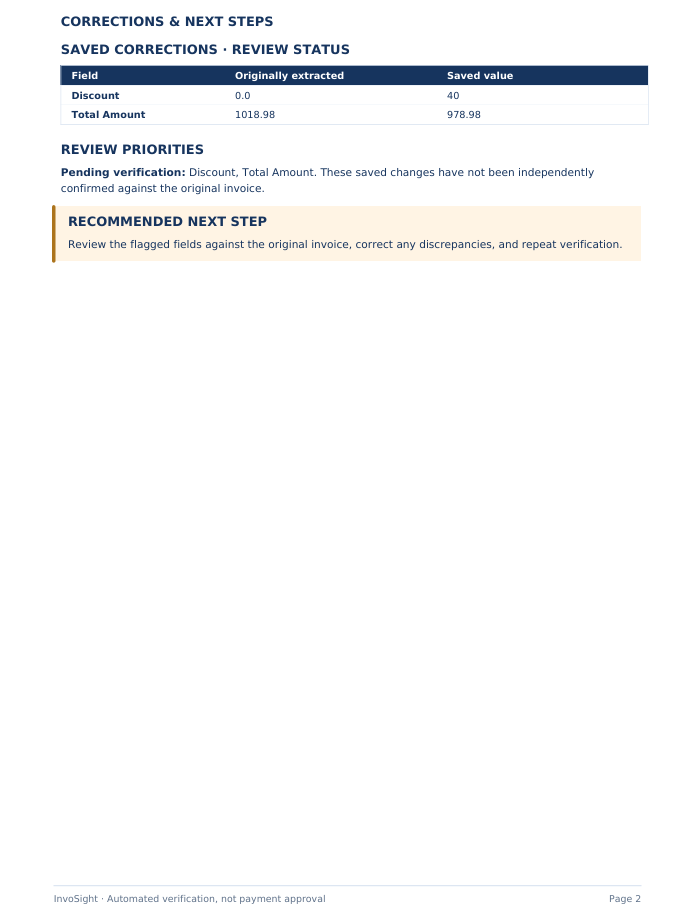
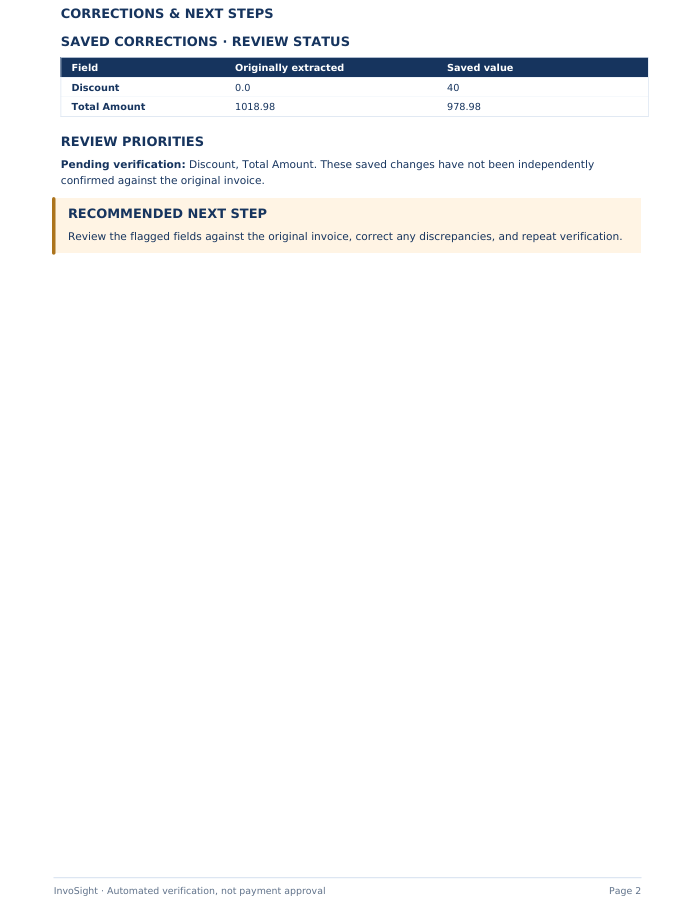
InvoSight

Changed region(s): [[0.0615, 0.0, 0.9531, 0.3087]]

diff --git a/README.md b/README.md
@@ -8,7 +8,9 @@
 
 *Turning invoice documents into structured information, clear validation results, and review-ready records.*
 
-[Live Demo](https://invosight.streamlit.app/) · [GitHub Repository](https://github.com/wejdan20fa/InvoSight)
+🚀 **[Try InvoSight — Click Here](https://invosight.streamlit.app/)**
+
+[GitHub Repository](https://github.com/wejdan20fa/InvoSight)
 
 </div>
 
@@ -16,15 +18,19 @@
 
 ## 📌 Overview
 
-**InvoSight** is an end-to-end AI-powered invoice processing and verification system. It extracts key information directly from invoice images, validates the extracted values, checks financial calculations, highlights fields that require review, allows users to correct values when needed, and stores the final records for future access.
+**InvoSight** is an end-to-end AI-powered invoice processing and verification system designed to make invoice review more structured, efficient, and transparent.
 
-The system brings the full workflow into one interface: **upload → extract → validate → review & edit → take action**. After validation, users can **save the invoice to the database, generate a verification report, or export the extracted data as JSON**.
+The system extracts key information directly from invoice images using a fine-tuned **Donut deep learning model**, validates the extracted values using independent OCR evidence and financial rules, highlights fields that require attention, allows users to review and correct values when needed, and stores the final records for future access.
 
-<p align="center">
-  <img src="InvoSight_Assets/project-overview.png" alt="InvoSight project overview showing the problem, solution, workflow, validation, dashboard, and technologies" width="95%">
-</p>
+The complete workflow is handled in one interface:
 
-*Figure 1. InvoSight project overview and end-to-end workflow.*
+**Upload → Extract → Validate → Review & Edit → Take Action**
+
+After validation, the user can choose one of three actions:
+
+- **Save to Database**
+- **Generate Verification Report**
+- **Export JSON**
 
 ---
 
@@ -32,15 +38,17 @@ The system brings the full workflow into one interface: **upload → extract →
 
 ### Interactive Dashboard — From Invoice to Insight
 
-The **InvoSight Dashboard** provides one workspace for invoice processing. Users can upload an invoice image, view the original document, extract structured fields with the AI model, inspect field-level validation results, review or edit values, and choose the next action after verification.
+The **InvoSight Dashboard** brings the complete invoice-processing workflow into one interactive workspace.
 
-The summary cards provide a quick view of saved, validated, review-required, and modified invoice records, while the invoice viewer, extracted information panel, and validation summary keep the document and its results visible together.
+Users can upload an invoice image, view the original document, extract structured information with the AI model, inspect field-level validation results, review or edit extracted values, and choose the next action after verification.
+
+The dashboard also includes summary cards for saved invoices, validated records, invoices requiring review, and modified invoices, while keeping the invoice viewer, extracted information, and validation summary visible together.
 
 <p align="center">
-  <img src="InvoSight_Assets/dashboard-preview.png" alt="InvoSight dashboard with invoice viewer, extracted fields, validation summary, and record statistics" width="95%">
+  <img src="InvoSight_Assets/dashboard-preview.png" alt="InvoSight dashboard showing invoice viewer, extracted information, validation summary, and record statistics" width="95%">
 </p>
 
-*Figure 2. The main InvoSight dashboard.*
+*Figure 1. The main InvoSight dashboard.*
 
 ---
 
@@ -48,15 +56,29 @@ The summary cards provide a quick view of saved, validated, review-required, and
 
 ### The Challenge
 
-Invoice processing involves more than entering text into a system. Financial teams often need to locate important invoice fields, enter or review them manually, check whether the extracted values match the source document, verify financial calculations, identify discrepancies, correct errors, and keep a record of the final result.
+Invoice processing is more than simply reading or entering text.
 
-When this process is repeated across a large number of invoices, manual review becomes **time-consuming, repetitive, and prone to human error**, which can slow down financial workflows and make inconsistencies harder to identify.
+Financial teams often need to:
+
+- Identify important invoice fields.
+- Enter or review invoice information manually.
+- Verify that extracted values match the original invoice.
+- Check financial relationships and calculations.
+- Detect missing, suspicious, or inconsistent values.
+- Correct errors when necessary.
+- Keep a clear record of the final reviewed result.
+
+When this process is repeated across a large number of invoices, manual review becomes **time-consuming, repetitive, and prone to human error**. This can slow financial workflows and make discrepancies harder to identify consistently.
 
 ### Our Solution
 
-**InvoSight** combines AI-based extraction, independent document evidence, financial validation, human review, and record management in one workflow.
+**InvoSight** combines deep learning-based document extraction, independent OCR evidence, financial validation, human review, and structured record management in one system.
 
-The system extracts structured information directly from invoice images using a fine-tuned **Donut** model. It then applies validation rules and OCR-based evidence to identify incorrect, suspicious, missing, or insufficiently verified values before the final result is saved.
+The invoice image is first processed by a fine-tuned **Donut model**, which extracts the required invoice information directly from the document image.
+
+The extracted values are then passed to the validation layer, where **Tesseract OCR is used as an independent source of textual evidence from the original invoice image**. This evidence is compared with the Donut output, while Python validation rules check financial consistency between invoice amounts.
+
+The result is not simply extracted data. InvoSight clearly identifies what has been validated and what still requires human attention.
 
 ### How InvoSight Works
 
@@ -71,24 +93,39 @@ flowchart LR
     E --> H[Export JSON]
 ```
 
-**1. Upload Invoice**  
-The user uploads an invoice image in PNG or JPG format.
+#### 1. Upload Invoice
 
-**2. AI Extraction**  
-The fine-tuned Donut model reads the invoice image and converts the required information into structured invoice fields.
+The user uploads an invoice image in **PNG or JPG** format.
 
-**3. Validation**  
-The extracted values are checked using document evidence and financial validation rules. The system identifies values that are valid and fields that require further review.
+#### 2. AI Extraction
 
-**4. Review & Edit**  
-The user reviews the extracted information, inspects validation feedback, and corrects values when necessary.
+The fine-tuned **Donut deep learning model** analyzes the invoice image and converts the required information into structured invoice fields.
 
-**5. Actions**  
+#### 3. Validation
+
+The extracted information is checked using two complementary validation sources:
+
+- **OCR evidence:** Tesseract OCR reads text independently from the original invoice image and provides evidence that can be compared with the Donut model output.
+- **Financial validation:** Python rules check the relationships between financial values such as subtotal, discount, tax, and total.
+
+Each field receives a validation result so the user can quickly identify values that passed the checks and fields that still need attention.
+
+#### 4. Review & Edit
+
+The user reviews the extracted values together with their validation results. If a value needs correction, it can be edited before the final result is saved or exported.
+
+#### 5. Actions
+
 After validation and review, the user can choose one of three actions:
 
-- **Save to Database:** Store the invoice, extracted values, and verification results for later access.
-- **Generate Verification Report:** Create a structured PDF report containing the verification results and review information.
-- **Export JSON:** Download the extracted invoice information as structured JSON data.
+**Save to Database**  
+Store the invoice, extracted values, and validation results for later access through the History and Database pages.
+
+**Generate Verification Report**  
+Create a structured PDF report containing invoice information, validation results, identified issues, modifications, and review information.
+
+**Export JSON**  
+Download the extracted invoice data in a structured JSON format for reuse in other workflows or systems.
 
 ---
 
@@ -96,14 +133,16 @@ After validation and review, the user can choose one of three actions:
 
 ### AI-Assisted Synthetic Invoice Generation
 
-The project uses approximately **10,000 synthetic, single-page invoice images** with corresponding structured JSON records across **20 invoice templates**. Synthetic data was used instead of real customer invoices so the team could control the invoice content, layouts, annotations, and financial relationships during model development.
+The project uses approximately **10,000 synthetic single-page invoice images** with corresponding structured JSON records across **20 invoice templates**.
+
+Synthetic invoices were used instead of real customer documents so the team could control the content, layouts, annotations, and financial relationships during model development.
 
 The dataset-generation workflow included:
 
 1. **Synthetic invoice content generation:** Fictional invoice identifiers, supplier and customer information, dates, line items, and financial values were generated and organized into structured records.
 2. **Financial consistency checks:** Python rules were used to validate the generated amounts and relationships between invoice fields.
 3. **Invoice rendering:** Pillow was used to place the generated information onto predefined invoice templates.
-4. **Image–annotation pairing:** Each rendered invoice image was paired with its corresponding structured JSON record for training and evaluation.
+4. **Image–annotation pairing:** Each rendered invoice image was paired with its corresponding structured JSON record for model training and evaluation.
 
 | Dataset Property | Description |
 |---|---|
@@ -111,7 +150,7 @@ The dataset-generation workflow included:
 | Size | Approximately 10,000 single-page invoices |
 | Layout Variations | 20 templates |
 | Content Generation | AI-assisted synthetic generation |
-| Rendering & Validation | Python and Pillow |
+| Rendering | Python and Pillow |
 | Annotations | Structured JSON |
 
 > The dataset and trained model weights are not included in this public repository.
@@ -123,27 +162,31 @@ The dataset-generation workflow included:
 | Component | Technology | Purpose |
 |---|---|---|
 | Document Extraction | Fine-tuned Donut | Extracts structured invoice information directly from images |
-| Independent OCR Evidence | Tesseract OCR | Provides additional document evidence for verification |
-| Validation Engine | Python | Checks extracted information and financial consistency |
+| Deep Learning Framework | PyTorch · Transformers | Supports the Donut model and document-understanding pipeline |
+| OCR Validation Evidence | Tesseract OCR | Provides independent textual evidence from the original invoice image |
+| Validation Engine | Python | Compares evidence and checks financial consistency |
 | Interactive Application | Streamlit | Provides upload, extraction, review, editing, and export |
 | Record Management | SQLite | Stores and retrieves saved invoice records |
 | PDF Reporting | ReportLab | Generates structured verification reports |
 
-A financial calculation that passes does **not** automatically prove that an extracted value matches the original invoice. InvoSight therefore separates **source verification** from **financial consistency checks** and surfaces fields that still require review.
+A financial calculation that passes does **not** automatically prove that an extracted value matches the original invoice.
+
+For this reason, InvoSight separates **financial consistency checks** from **source verification** and surfaces fields that still require review.
 
 ---
 
 ## ✨ Key Features
 
-- **AI-powered invoice extraction:** Extracts key invoice fields automatically from invoice images.
-- **Field-level validation:** Evaluates extracted information and clearly shows validation status for each field.
-- **Financial validation:** Checks relationships between subtotal, discount, tax, and total to detect calculation inconsistencies.
-- **Discrepancy detection:** Flags suspicious, missing, mismatched, or insufficiently verified values.
-- **Review & edit:** Allows users to inspect and correct extracted values before saving.
-- **Database storage:** Saves verified invoice records for future access and management.
-- **Invoice history:** Provides access to previously processed and saved invoices.
-- **JSON export:** Downloads structured extracted information for reuse in other workflows.
-- **Verification reports:** Generates professional PDF reports containing validation results and review information.
+- **Deep learning-based invoice extraction:** Extracts structured invoice information directly from invoice images using Donut.
+- **OCR-supported validation:** Uses Tesseract OCR as independent evidence from the source invoice.
+- **Field-level validation:** Shows validation status for each extracted field.
+- **Financial validation:** Checks relationships between subtotal, discount, tax, and total.
+- **Discrepancy detection:** Identifies suspicious, mismatched, missing, or insufficiently verified values.
+- **Review & edit:** Allows users to correct extracted values before saving.
+- **Invoice history:** Provides access to previously processed records.
+- **Database management:** Supports searching, reviewing, editing, and deleting saved invoices.
+- **JSON export:** Downloads extracted invoice information in structured form.
+- **Verification reports:** Generates professional PDF reports containing validation and review results.
 
 ---
 
@@ -165,7 +208,9 @@ A financial calculation that passes does **not** automatically prove that an ext
 
 ## 🔎 Verification & Review
 
-InvoSight does not treat extraction as the final result. Each extracted field is passed through the verification workflow so the user can see what was successfully validated and what still needs attention.
+InvoSight does not treat extraction as the final result.
+
+Each extracted field is passed through the verification workflow so the user can see which values were successfully validated and which fields still require attention.
 
 | Status | Meaning |
 |---|---|
@@ -177,9 +222,14 @@ InvoSight does not treat extraction as the final result. Each extracted field is
 
 ### Smart Validation
 
-- **Document evidence:** Tesseract OCR provides independent text evidence from the invoice image.
-- **Financial validation:** The system checks the relationship between **subtotal, discount, tax, and total**.
-- **Field-level feedback:** Validation results are shown directly beside the extracted values so the user can focus on the fields that need attention.
+**OCR Evidence**  
+Tesseract OCR provides independent textual evidence from the original invoice image. This evidence is compared with the Donut model output during validation.
+
+**Financial Validation**  
+Python rules check the relationship between **subtotal, discount, tax, and total** to detect calculation inconsistencies.
+
+**Field-Level Feedback**  
+Validation results are displayed beside the extracted values so the user can immediately focus on the fields that need attention.
 
 ---
 
@@ -187,62 +237,66 @@ InvoSight does not treat extraction as the final result. Each extracted field is
 
 ### Validation Results — See What Needs Attention
 
-The validation results table presents the extracted fields together with their current status. This makes it easy to distinguish successfully validated values from fields that require review.
+The validation results table presents the extracted fields together with their current validation status, making it easy to distinguish successfully validated values from fields that require review.
 
 <p align="center">
   <img src="InvoSight_Assets/validation-results.png" alt="InvoSight field-level validation results table" width="90%">
 </p>
 
-*Figure 3. Field-level validation results.*
+*Figure 2. Field-level validation results.*
 
 ### History — Track Previous Activity
 
-The **History** page provides access to previously processed invoices and recent saved activity, allowing users to return to earlier records without repeating the extraction workflow.
+The **History** page gives users access to previously processed and saved invoices, making it easy to return to earlier records without repeating the extraction workflow.
 
 <p align="center">
   <img src="InvoSight_Assets/history-preview.png" alt="InvoSight history page showing previously processed invoices" width="90%">
 </p>
 
-*Figure 4. Invoice processing history.*
+*Figure 3. Invoice processing history.*
 
 ### Database — Review, Edit & Manage Records
 
-The **Database** page provides a searchable view of saved invoice records. Users can inspect stored invoice information and validation status, then open the management section to edit or delete saved records when necessary.
+The **Database** page provides a searchable view of saved invoice records.
+
+Users can review saved invoices and their validation status, then use the management section to edit or delete records when needed.
 
 <p align="center">
-  <img src="InvoSight_Assets/database-overview.png" alt="InvoSight database overview with saved invoice records" width="49%">
+  <img src="InvoSight_Assets/database-overview.png" alt="InvoSight database overview showing saved invoice records" width="49%">
   <img src="InvoSight_Assets/database-edit-delete.png" alt="InvoSight database edit and delete controls" width="49%">
 </p>
 
-*Figure 5. Database overview and record-management controls.*
+*Figure 4. Database overview and record-management controls.*
 
-### Verification Report — Turn Validation into a Review-Ready Document
+### Verification Report — Clear Results for Review
 
-InvoSight can generate a structured **PDF verification report** that summarizes the invoice information, validation results, detected issues, saved corrections, and recommended review actions. The report provides a clear document for follow-up and record keeping.
+InvoSight generates a structured **PDF verification report** that summarizes the invoice information, validation results, detected issues, saved corrections, and review information.
 
 <p align="center">
   <img src="InvoSight_Assets/report-page-1.png" alt="InvoSight verification report page 1" width="49%">
   <img src="InvoSight_Assets/report-page-2.png" alt="InvoSight verification report page 2" width="49%">
 </p>
 
-*Figure 6. Two-page verification report generated by InvoSight.*
+*Figure 5. Two-page verification report generated by InvoSight.*
 
-### Settings — Configure the Application Experience
+### Settings — Application Preferences
 
-The **Settings** page provides a dedicated place for general application and display preferences.
+The **Settings** page provides a dedicated space for application and display preferences.
 
 <p align="center">
   <img src="InvoSight_Assets/settings-preview.png" alt="InvoSight settings page" width="90%">
 </p>
 
-*Figure 7. InvoSight settings interface.*
+*Figure 6. InvoSight settings interface.*
 
 ---
 
 ## 🛠 Technology Stack
 
-**AI & Machine Learning:** Python · PyTorch · Hugging Face Transformers · Donut  
-**Document Processing:** Tesseract OCR · Pillow  
+**Programming Language:** Python  
+**Deep Learning & Document AI:** Donut · PyTorch · Transformers  
+**Validation & OCR Evidence:** Tesseract OCR · Python Validation Rules  
+**Image Processing & Synthetic Dataset Rendering:** Pillow  
 **Application:** Streamlit  
 **Data & Storage:** SQLite · JSON  
 **Reporting:** ReportLab  
@@ -263,7 +317,6 @@ InvoSight/
 ├── InvoSight_Assets/
 │   ├── logo-full.png
 │   ├── dashboard-background.png
-│   ├── project-overview.png
 │   ├── dashboard-preview.png
 │   ├── validation-results.png
 │   ├── history-preview.png
@@ -278,7 +331,7 @@ InvoSight/
 └── README.md
 ```
 
-The local virtual environment, trained model weights, dataset, and local development files are excluded from version control.
+The local virtual environment, dataset, trained model weights, and local development files are excluded from version control.
 
 ---
 
@@ -327,24 +380,35 @@ The trained model weights are not included in this repository. Place the require
 streamlit run App.py
 ```
 
-Streamlit will open the application locally, typically at `http://localhost:8501`.
+The local application is typically available at:
+
+`http://localhost:8501`
+
+### Try the Deployed Application
+
+🚀 **[Try InvoSight — Click Here](https://invosight.streamlit.app/)**
+
+Full application link:
+
+`https://invosight.streamlit.app/`
 
 ---
 
 ## 📊 Project Outcomes & Organizational Value
 
-InvoSight demonstrates an end-to-end Document AI workflow that connects **invoice extraction, source-aware verification, financial validation, human review, structured storage, and professional reporting** in one application.
+InvoSight demonstrates an end-to-end **Document AI workflow** that connects deep learning-based invoice extraction, OCR-supported source verification, financial validation, human review, structured record management, and professional reporting in one application.
 
-For financial teams, the intended value is to reduce repetitive manual entry and checking, make discrepancies easier to identify, and allow reviewers to focus their attention on invoices and fields that actually require follow-up.
+For financial teams, the intended value is to reduce repetitive manual entry and checking, make discrepancies easier to identify, and help reviewers focus their attention on invoices and fields that actually require follow-up.
 
 ---
 
-## ⚠ Known Limitations
+## ⚠ Current Scope & Considerations
 
-- Extraction performance can vary with invoice layout, image resolution, and document quality.
-- OCR evidence may be incomplete when text is unclear, overlapping, or difficult to recognize.
-- A financially consistent calculation does not independently prove that the extracted value matches the original document.
-- Automated validation supports human review and does **not** constitute final financial or payment approval.
+- **Generalization:** Extraction performance can vary when processing invoice layouts or visual styles that differ significantly from the data used during model development.
+- **Document quality:** Image resolution, text clarity, and document layout can affect both AI extraction and OCR-based validation evidence.
+- **Validation evidence:** Tesseract OCR is used as an independent source of textual evidence to compare against the Donut model output. Unclear or poorly recognized text may therefore require manual review.
+- **Financial consistency:** Calculation checks help identify inconsistencies between subtotal, discount, tax, and total, but a mathematically consistent result does not by itself confirm that every extracted value matches the source invoice.
+- **Human review:** InvoSight is designed to support invoice verification and highlight exceptions. Final financial approval remains a human decision.
 
 ---
 
